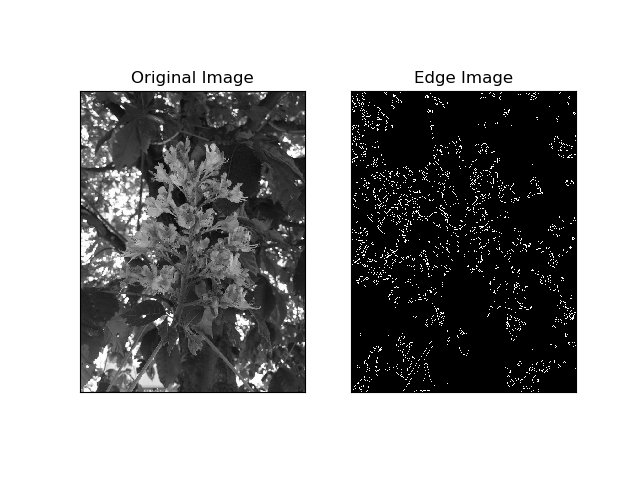
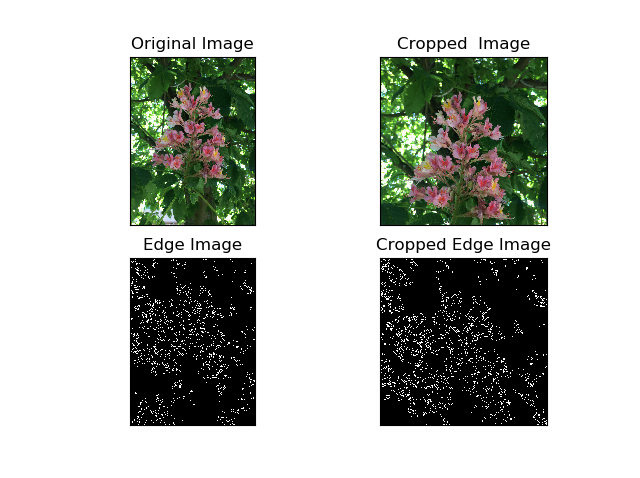
optimize

diff --git a/attempts/cropit.py b/attempts/cropit.py
@@ -3,22 +3,22 @@ import cv2
 import numpy as np
 from matplotlib import pyplot as plt
 
-img = cv2.imread('D:\\Uni\\TU\\DL\\project\\florec\\testim\\apl.jpg',3)
+img = cv2.imread('..\\testim\\4.jpg',3)
 b,g,r = cv2.split(img)
 img = cv2.merge([r,g,b])
 edges = cv2.Canny(img, 200,400)
-n_white_pix = np.sum(edges == 255)
-print('Number of white pixels:', n_white_pix)
 
 def square_it(grim, orim):
 	y, x = grim.shape
+	xc = x//2
+	yc = y//2
 	if x > y:
 		lw = np.sum(grim[0:y, 0:y] == 255)
-		cw = np.sum(grim[0:y, (x//2)-(y//2):(x//2)+(y//2)] == 255)
+		cw = np.sum(grim[0:y, xc-yc:xc+yc] == 255)
 		rw = np.sum(grim[0:y, x-y:x] == 255)
 	else:
 		lw = np.sum(grim[0:x, 0:x] == 255)
-		cw = np.sum(grim[(y//2)-(x//2):(y//2)+(x//2), 0:x] == 255)
+		cw = np.sum(grim[yc-xc:yc+xc, 0:x] == 255)
 		rw = np.sum(grim[y-x:y, 0:x] == 255)
 	if lw > rw:
 		if lw > cw:
@@ -28,9 +28,9 @@ def square_it(grim, orim):
 				return grim[0:x, 0:x], orim[0:x, 0:x]
 		else:
 			if x > y:
-				return grim[0:y, (x//2)-(y//2):(x//2)+(y//2)], orim[0:y, (x//2)-(y//2):(x//2)+(y//2)]
+				return grim[0:y, xc-yc:xc+yc], orim[0:y, xc-yc:xc+yc]
 			else:
-				return grim[(y//2)-(x//2):(y//2)+(x//2), 0:x], orim[(y//2)-(x//2):(y//2)+(x//2), 0:x]
+				return grim[yc-xc:yc+xc, 0:x], orim[yc-xc:yc+xc, 0:x]
 	elif rw > cw:
 		if x > y:
 			return grim[0:y, x-y:x], orim[0:y, x-y:x]
@@ -38,19 +38,19 @@ def square_it(grim, orim):
 			return grim[y-x:y, 0:x], orim[y-x:y, 0:x]
 	else:
 		if x > y:
-			return grim[0:y, (x//2)-(y//2):(x//2)+(y//2)], orim[0:y, (x//2)-(y//2):(x//2)+(y//2)]
+			return grim[0:y, xc-yc:xc+yc], orim[0:y, xc-yc:xc+yc]
 		else:
-			return grim[(y//2)-(x//2):(y//2)+(x//2), 0:x], orim[(y//2)-(x//2):(y//2)+(x//2), 0:x]
+			return grim[yc-xc:yc+xc, 0:x], orim[yc-xc:yc+xc, 0:x]
 
 edcr, orcr = square_it(edges, img)
 
 plt.subplot(221),plt.imshow(img,cmap = 'gray')
 plt.title('Original Image'), plt.xticks([]), plt.yticks([])
-plt.subplot(222),plt.imshow(edcr,cmap = 'gray')
-plt.title('Cropped Edge Image'), plt.xticks([]), plt.yticks([])
+plt.subplot(222),plt.imshow(orcr)
+plt.title('Cropped  Image'), plt.xticks([]), plt.yticks([])
 plt.subplot(223),plt.imshow(edges,cmap = 'gray')
 plt.title('Edge Image'), plt.xticks([]), plt.yticks([])
-plt.subplot(224),plt.imshow(orcr)
-plt.title('Cropped Image'), plt.xticks([]), plt.yticks([])
+plt.subplot(224),plt.imshow(edcr, cmap = 'gray')
+plt.title('Cropped Edge Image'), plt.xticks([]), plt.yticks([])
 
 plt.show()
